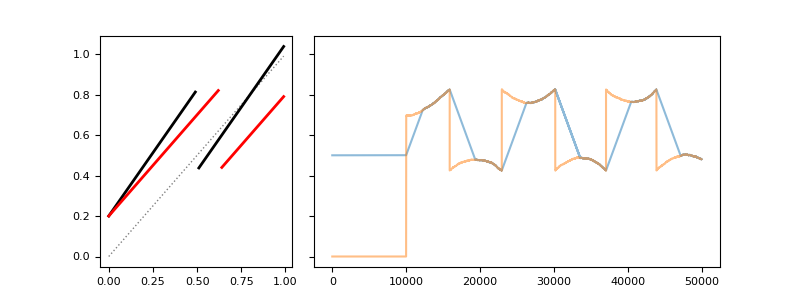
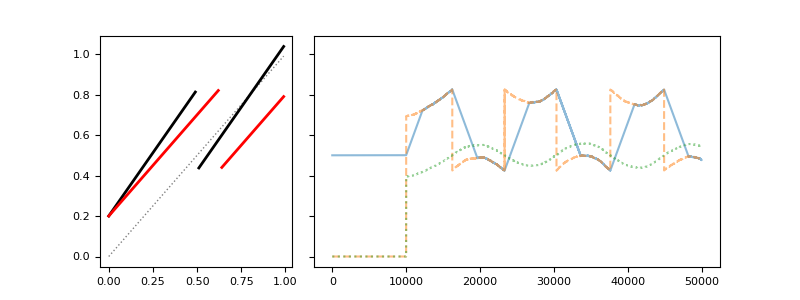
==

Changed region(s): [[0.5, 0.3, 0.875, 0.57], [0.4062, 0.84, 0.5, 0.87], [0.5, 0.57, 0.5312, 0.6]]

diff --git a/connection.py b/connection.py
@@ -20,28 +20,32 @@ class Connection(object):
         self.strengthen_rate = float(1) / self.transmission_history_len
         self.I = 0
 
-
     def propagate_once(self, stimulus_prob, debug=False, return_target_strength=False):
         self.I += 1
         target_strength = 0
+        frequency = 0
         self.transmission_history.records[self.transmission_history_pointer] = 0
         if stimulus_prob > np.random.rand():
             if self.strength > np.random.rand():
                 self.transmission_history.records[self.transmission_history_pointer] = 1
         if self.I > self.transmission_history_len:
-            frequency = self.transmission_history.records.sum() / float(self.transmission_history_len)
+            frequency = self.transmission_history.records.sum(
+            ) / float(self.transmission_history_len)
             target_strength = self.strengthen_function(frequency)
             current_strength = self.strength
 
             if target_strength > current_strength:
-                self.strength = np.min((current_strength + self.strengthen_rate, 1))
+                self.strength = np.min(
+                    (current_strength + self.strengthen_rate, 1))
             else:
-                self.strength = np.max((0, current_strength - self.strengthen_rate))
+                self.strength = np.max(
+                    (0, current_strength - self.strengthen_rate))
 
-        self.transmission_history_pointer = (self.transmission_history_pointer + 1) % self.transmission_history_len
+        self.transmission_history_pointer = (
+            self.transmission_history_pointer + 1) % self.transmission_history_len
 
         if return_target_strength:
-            return target_strength
+            return target_strength, frequency
 
     def get_frequency(self):
         return self.transmission_history.records.sum() / float(self.transmission_history_len)

diff --git a/conn_13_trajectory_detail.py b/conn_13_trajectory_detail.py
@@ -1,10 +1,10 @@
+from connection import Connection
+import strengthen_functions
+import numpy as np
+import matplotlib.gridspec as gridspec
+import matplotlib.pyplot as plt
 import matplotlib as mpl
 mpl.use('Agg', warn=False)
-import matplotlib.pyplot as plt
-import matplotlib.gridspec as gridspec
-import numpy as np
-import strengthen_functions
-from connection import Connection
 
 gs = gridspec.GridSpec(1, 15)
 ax1 = plt.subplot(gs[:, :5])
@@ -38,13 +38,17 @@ ax1.plot(x, discontinue(y_scaled), linewidth=2, linestyle='-', color='red')
 # for i in range(11):
 conn = Connection(init_strength=.5, pf=pf, transmission_history_len=10**4)
 strength = []
-target_strength = []
+target_strength_l = []
+frequency_l = []
 for i in range(1 * 50000):
-    target = conn.propagate_once(stimulus_prob=stimulus_prob, return_target_strength=True)
+    target_strength, frequency = conn.propagate_once(
+        stimulus_prob=stimulus_prob, return_target_strength=True)
     strength.append(conn.get_strength())
-    target_strength.append(target)
+    target_strength_l.append(target_strength)
+    frequency_l.append(frequency)
 ax2.plot(strength, alpha=.5)
-ax2.plot(target_strength, alpha=.5)
+ax2.plot(target_strength_l, linestyle='dashed', alpha=.5)
+ax2.plot(frequency_l, linestyle='dotted', alpha=.5)
 
 ax1.tick_params(labelsize=8)
 ax2.tick_params(labelsize=8)

diff --git a/README.md b/README.md
@@ -8,11 +8,13 @@
 ## Figure 4: one-to-one mapping from stimulus to strength
 
 `conn_08_s_x_relation_pf_30.py`
+
 `conn_08_s_x_relation_pf_32.py`
 
 ## Figure 5: different stimulus
 
 `conn_09_typical_funcs_convergence.py` with  plasticity functions PF12.
+
 `conn_10_s_x_relation_sin_pf.py` to plot theta function.
 
 ## Figure 6: lambda of choice
@@ -38,10 +40,13 @@
 ## meshed-NN
 
 training: `nn_meshed_train_batch.sh`
+
 testing: `nn_meshed_test_batch.sh`
+
 per-digit testing: `nn_meshed_test_number_batch.sh`
 
 ## growable-NN
 
 training: `nn_growable_train_batch.sh`
+
 testing: `nn_growable_test_batch.sh`
